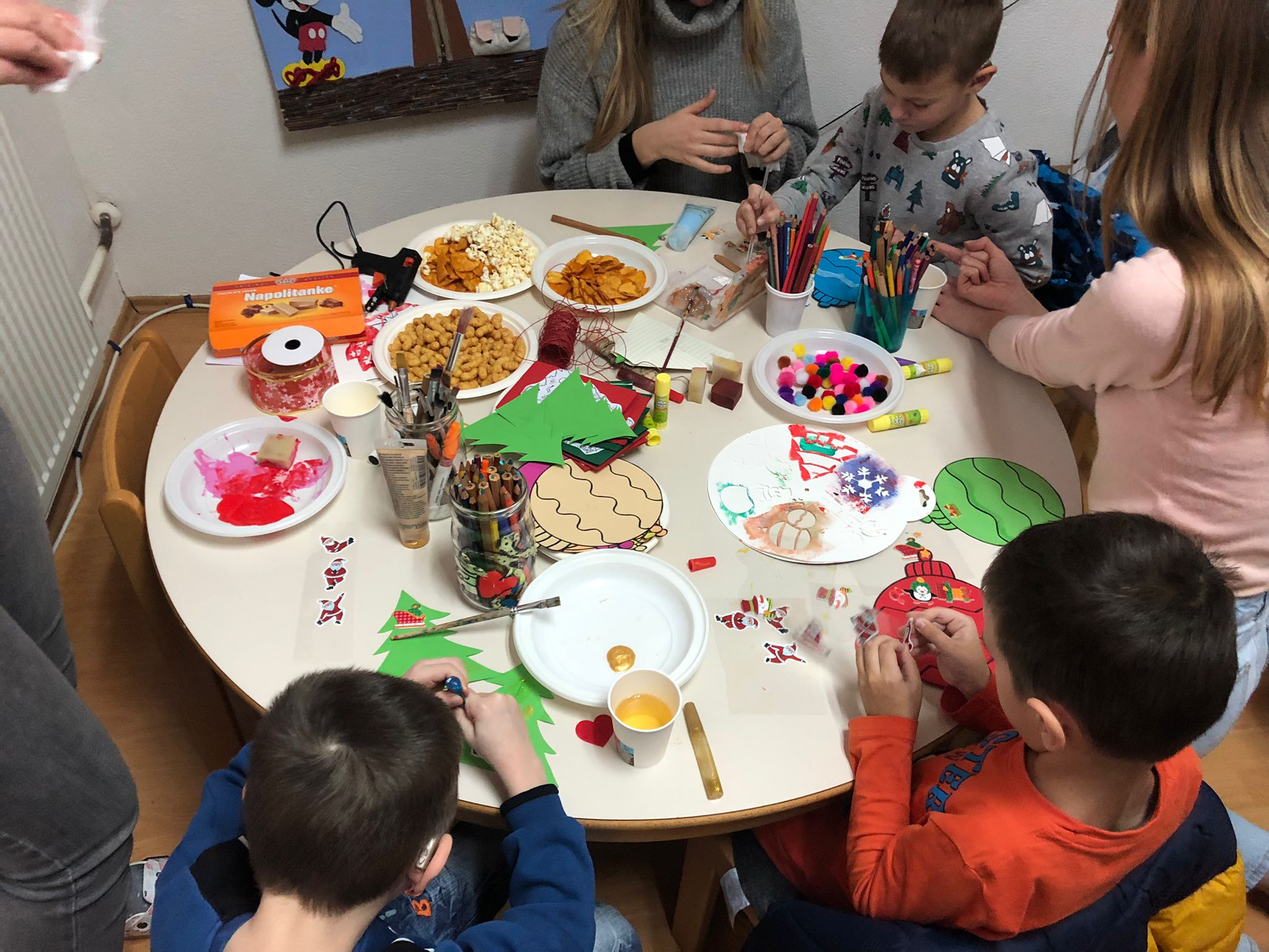
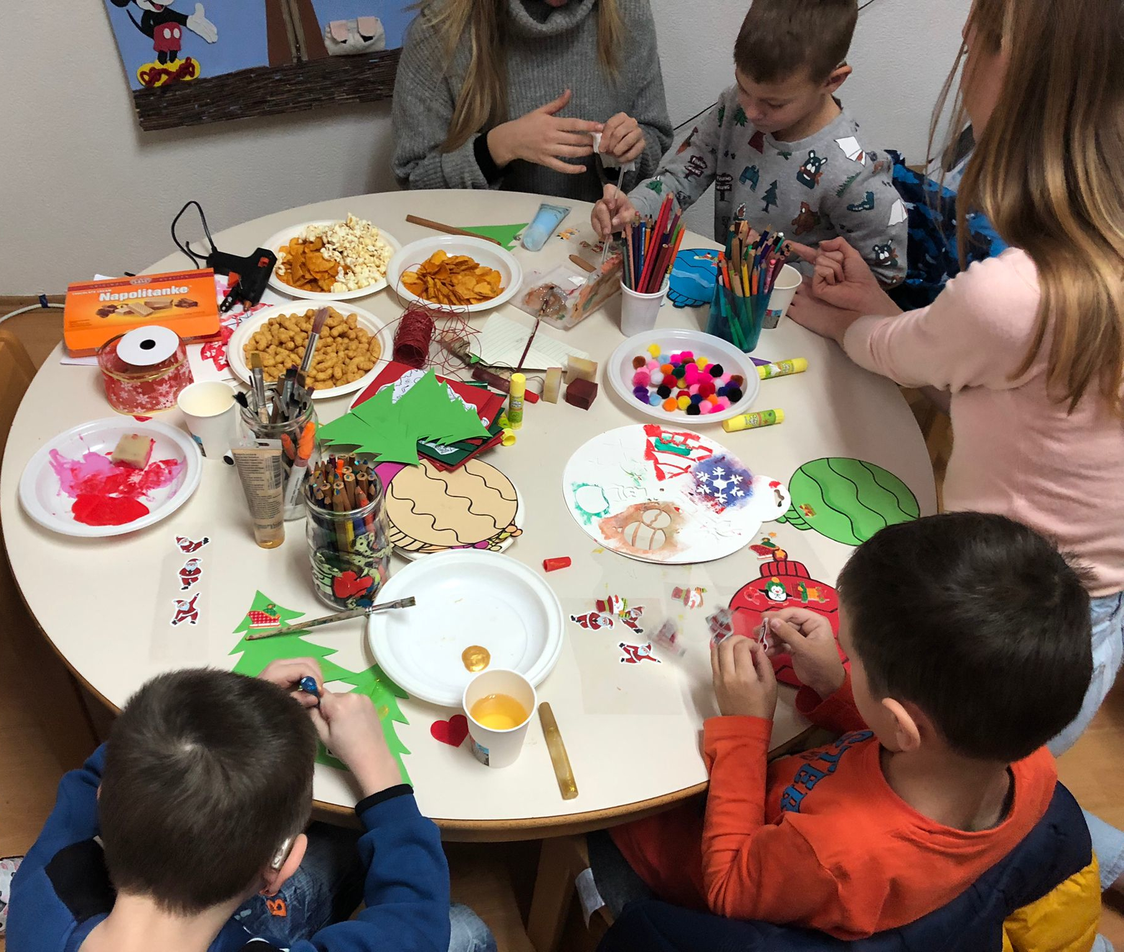
Fixed typos and cropped naslovna.jpg

diff --git a/index.html b/index.html
@@ -149,7 +149,7 @@
             <span class="fw-bold">„Pomoć u razvoju socijalnih vještina kod djece s teškoćama u razvoju u Ličko-senjskoj
               županiji“</span>;
             Odobrilo Ministarstvo rada,
-            mirovinskog sustava, obitelj i socijalne politike; trogodišnji program 2020.-2023. - prva godina provođenja;
+            mirovinskog sustava, obitelj i socijalne politike; trogodišnji program 2020.-2023. - druga godina provođenja;
             1.06.2021.-31.05.2022.
           </p>
           <p class="mb-5 fw-medium fs-4 text-secondary"><span class="text-primary">2020. godina</span><br>1. program:
@@ -218,7 +218,7 @@
             Zagreb<br class="d-block"><span class="text-primary">OIB:</span> 08861986177<br class="d-block"><span
               class="text-primary">godina osnutka:</span> 2006.</p>
           <p class="fw-medium fs-4 text-secondary"><span class="text-primary">Tijela udruge:</span><br
-              class="d-block">skupština (7 član)<br class="d-block">predsjednik (Branko Nikolić)<br
+              class="d-block">skupština (7 članova)<br class="d-block">predsjednik (Branko Nikolić)<br
               class="d-block">dopredsjednik (Mile Simeon)<br class="d-block">tajnik (Jana Korlević)</p>
         </div>
       </div>
